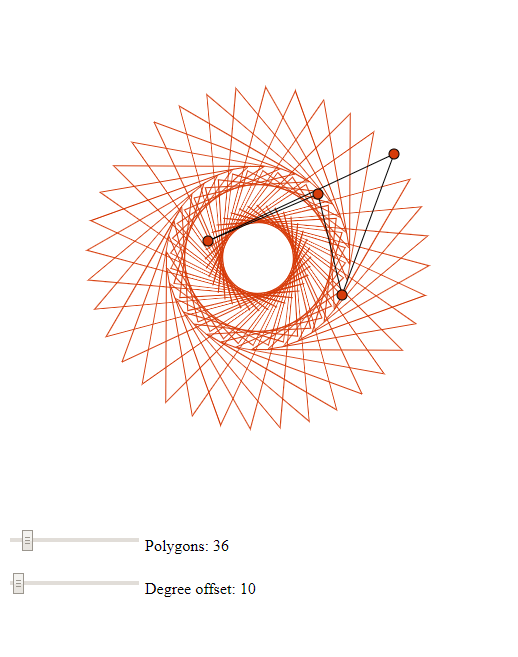
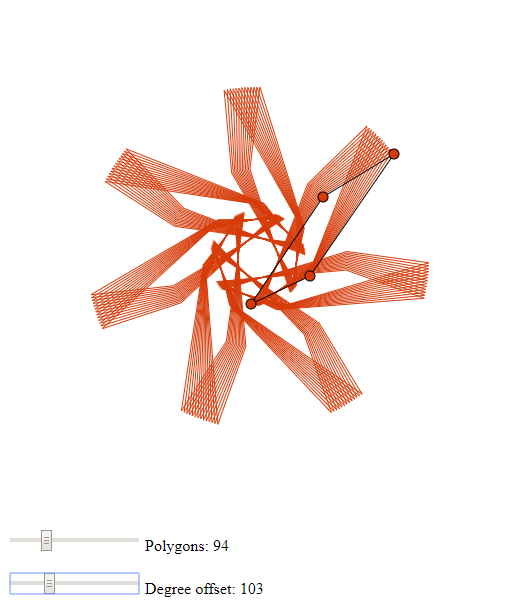
Add missing index.html, update screenshot

Changed region(s): [[0.1544, 0.1188, 0.834, 0.7129], [0.0, 0.802, 0.5251, 0.9802], [0.278, 0.8911, 0.4942, 0.9208]]

diff --git a/index.html b/index.html
@@ -1,0 +1,221 @@
+<!DOCTYPE html>
+<html>
+  
+<head>
+  <meta http-equiv="Content-Type" content="text/html; charset=utf-8"/>
+  <title> Spirograph </title>
+  <script src="https://d3js.org/d3.v3.min.js"></script>
+  
+  <style>
+    .poly {
+      fill: none;
+      stroke: red;
+      pointer-events: all;
+    }
+    
+    .control {
+      fill: none;
+      stroke: red;
+      pointer-events: all;
+    }
+    
+    .control.highlight {
+      stroke: black;
+    }
+    
+    .handle {
+       fill: red;
+       stroke: black;
+       visibility: hidden;
+       pointer-events: all;
+    }
+    
+    .handle.highlight {
+       visibility: visible;
+    }
+    
+  </style>
+</head>
+
+<!-- Set up page -->
+<body> 
+ 
+  <svg></svg>
+  <p>
+    <input type="range" name="rotations" id="rotations" min="1" max="359" value="36">
+    <label for="rotations" id="rotationLabel"></label>
+  </p>
+  <p>
+    <input type="range" id="degrees" min="1" max="359" value="10">
+    <label for="degrees" id="degreeLabel"></label>
+  </p>
+  
+<!-- Visualization code -->  
+<script>
+
+// Size
+var width = 500,
+    height = 500;
+    
+// Handle radius
+var handleRadius = 5;
+    
+// Initialize polygon points
+var p = [[0, 0],
+         [100, 0],
+         [100, 100],
+         [0, 100]];
+       
+// String for polygon points
+function pString() {
+  return p[0][0] + "," + p[0][1] + " " +
+         p[1][0] + "," + p[1][1] + " " +
+         p[2][0] + "," + p[2][1] + " " +
+         p[3][0] + "," + p[3][1];
+}  
+
+// Rotation for polygon transform
+function rotate(d) { 
+  return "rotate(" + d + ")";
+}
+
+// Show handles
+function showHandles() {
+  g.select(".control").classed("highlight", true);
+  g.selectAll(".handle").classed("highlight", true);
+}    
+
+// Hide handles
+function hideHandles() {
+  g.select(".control").classed("highlight", false);
+  g.selectAll(".handle").classed("highlight", false);
+}
+
+// GUI controls
+d3.select("#rotations")
+    .on("input", function() {
+      drawPolys();
+    });
+
+d3.select("#degrees")
+    .on("input", function() {
+      drawPolys();
+    });
+    
+// Set up svg element and add a group to transform the center to the origin and flip the y axis  
+var g = d3.select("svg")
+    .attr("width", width)
+    .attr("height", height)
+  .append("g")
+    .attr("transform", "translate(" + (width / 2) + "," + (height / 2) + ")scale(1,-1)");
+    
+// Add group for polygons here for correct z order
+g.append("g")
+    .attr("class", "poly");
+    
+// Add control polygon
+g.append("polygon")
+    .attr("class", "control")
+    .attr("points", pString)
+    .on("mouseover", function() {
+      // Show handles
+      showHandles();
+    })
+    .on("mouseout", function() {
+      // Hide handles
+      hideHandles();
+    });
+    
+// Drag behavior for control points
+var drag = d3.behavior.drag()
+  .on("drag", function(d) {
+    // Constrain point
+    var w = width / 2,
+        h = height / 2,
+        r = handleRadius + 1,
+        x = Math.max(-w + r, Math.min(w - r, d3.event.x)),
+        y = Math.max(-h + r, Math.min(h - r, d3.event.y));
+    
+    // Set new point
+    p[d][0] = x;
+    p[d][1] = y;
+
+    // Update handle
+    d3.select(this)
+        .attr("cx", x)
+        .attr("cy", y);
+
+    // Redraw polygons
+    g.select(".control")
+        .attr("points", pString);
+
+    drawPolys();
+    
+    // Make sure handles are visible
+    showHandles();
+  });
+  
+// Add four control points
+g.selectAll(".handle")
+    .data(d3.range(4))
+  .enter().append("circle")
+    .attr("class", "handle")
+    .attr("r", 5)
+    .attr("cx", function(d) { return p[d][0]; })
+    .attr("cy", function(d) { return p[d][1]; })
+    .on("mouseover", function() {
+      // Show handles
+      showHandles();
+    })
+    .on("mouseout", function() {
+      // Hide handles
+      hideHandles();
+    })
+    .call(drag);
+    
+// Draw all polygons    
+drawPolys();
+
+function drawPolys() {
+  // Get values from sliders
+  var rotations = d3.select("#rotations").node().value,
+      degrees = d3.select("#degrees").node().value;
+      
+  // Update labels
+  d3.select("#rotationLabel")
+      .text("Polygons: " + rotations);
+      
+  d3.select("#degreeLabel")
+      .text("Degree offset: " + degrees);
+      
+  // Compute rotation angle for each polygon
+  var angles = d3.range(degrees, rotations * degrees, degrees);
+  
+  // Bind angle data for polygons
+  var poly = g.select(".poly").selectAll("polygon")
+      .data(angles);
+    
+  // Update
+  poly.attr("points", pString)
+      .attr("transform", rotate);
+  
+  // Enter
+  poly.enter().append("polygon")
+      .attr("points", pString)
+      .attr("transform", rotate)
+      .on("mouseover", function() {
+        // Show handles
+        showHandles();
+      })
+      .on("mouseout", function() {
+        // Hide handles
+        hideHandles();
+      });
+  
+  // Exit
+  poly.exit().remove();
+}
+
+</script>
+</body>
+</html>
